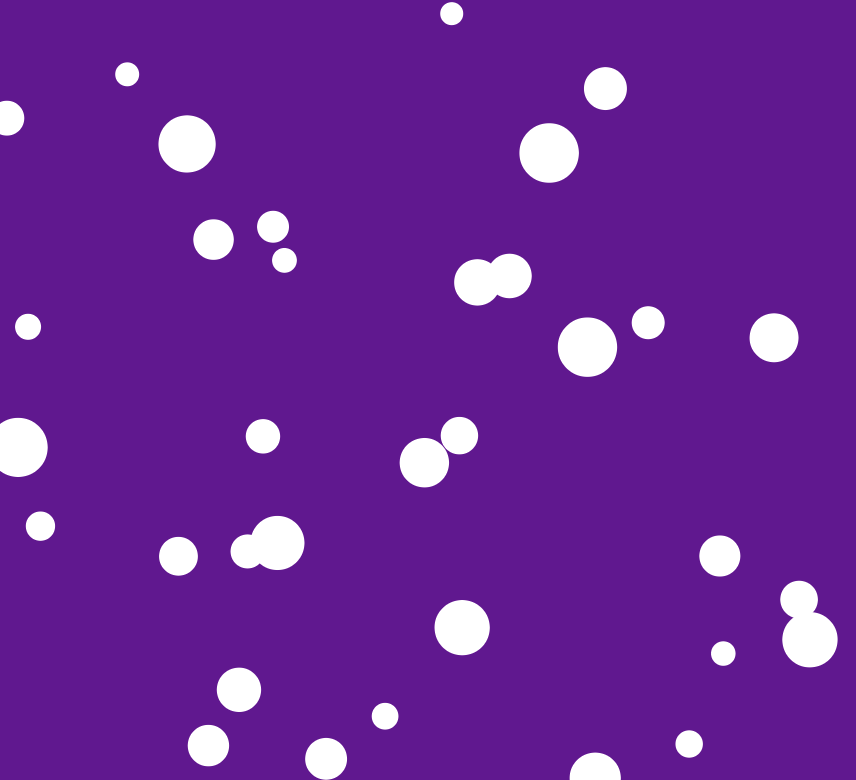
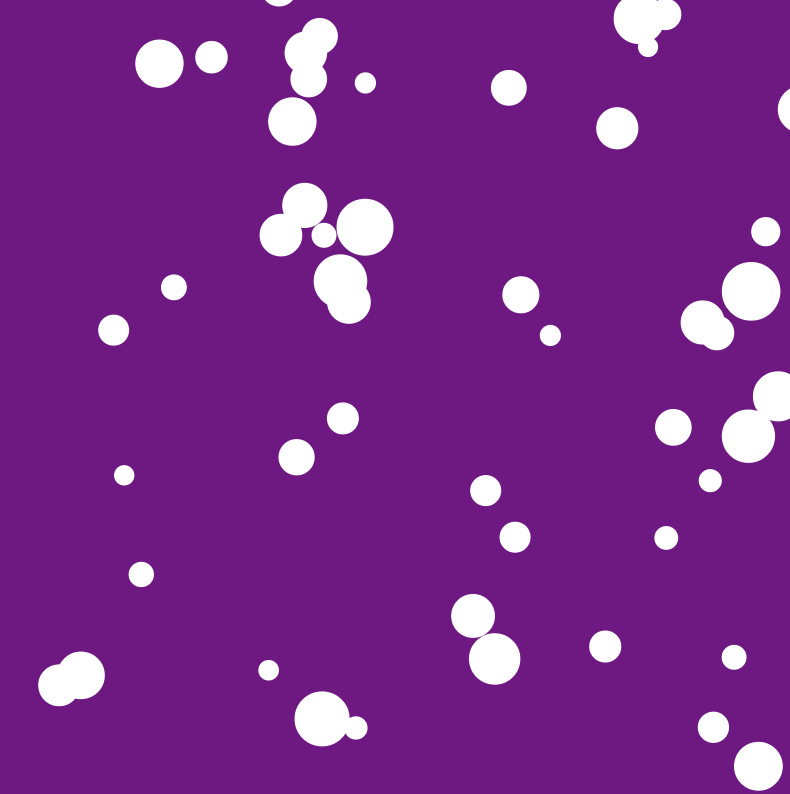
image changes

diff --git a/homePage/index.html b/homePage/index.html
@@ -78,7 +78,7 @@
     </div>
     <div class="col-sm-3">
       <a href="assignment4.html">Assignment 4</a>
-      <img src="https://placehold.it/150x80?text=IMAGE" class="img-responsive" style="width:100%" alt="Image">
+      <img src="snakeIcon.png" class="img-responsive" style="width:100%" alt="Image">
     </div>
   </div>
 </div><br>

diff --git a/assignment_3_0/animation.js b/assignment_3_0/animation.js
@@ -5,7 +5,7 @@ var g = 0;
 var b = 0;
 
 function setup() {
-	createCanvas(600, 400);
+	createCanvas(400, 400);
 	//create objects
 	for (var i = 0; i < 50; i++) {
 		dots.push(new Wiggle());
